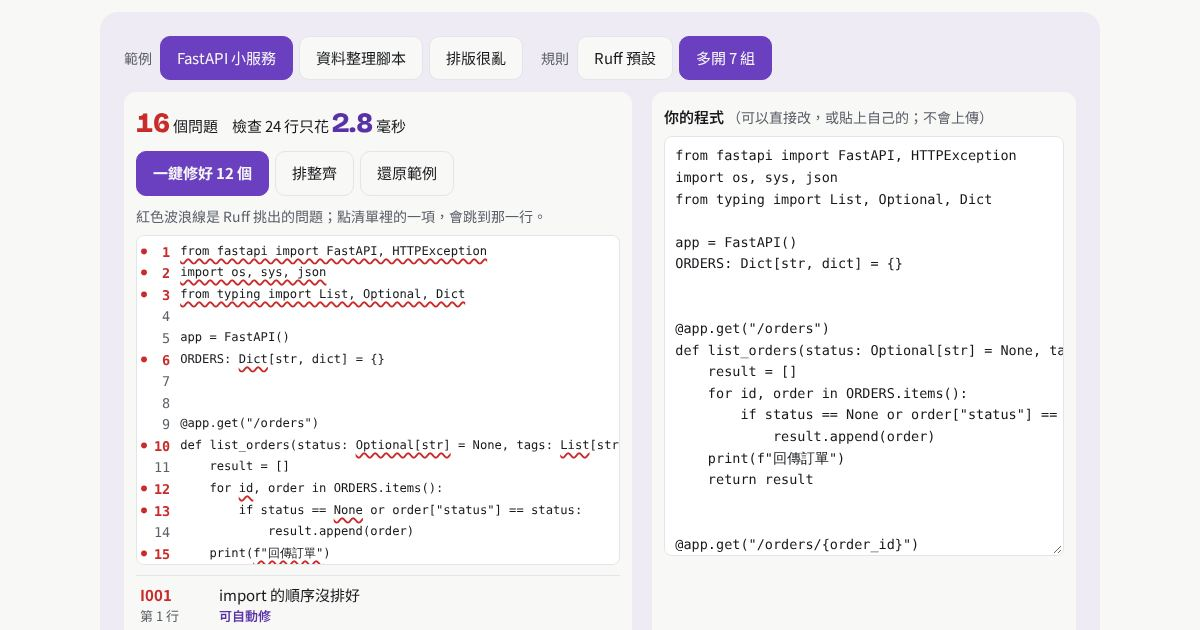
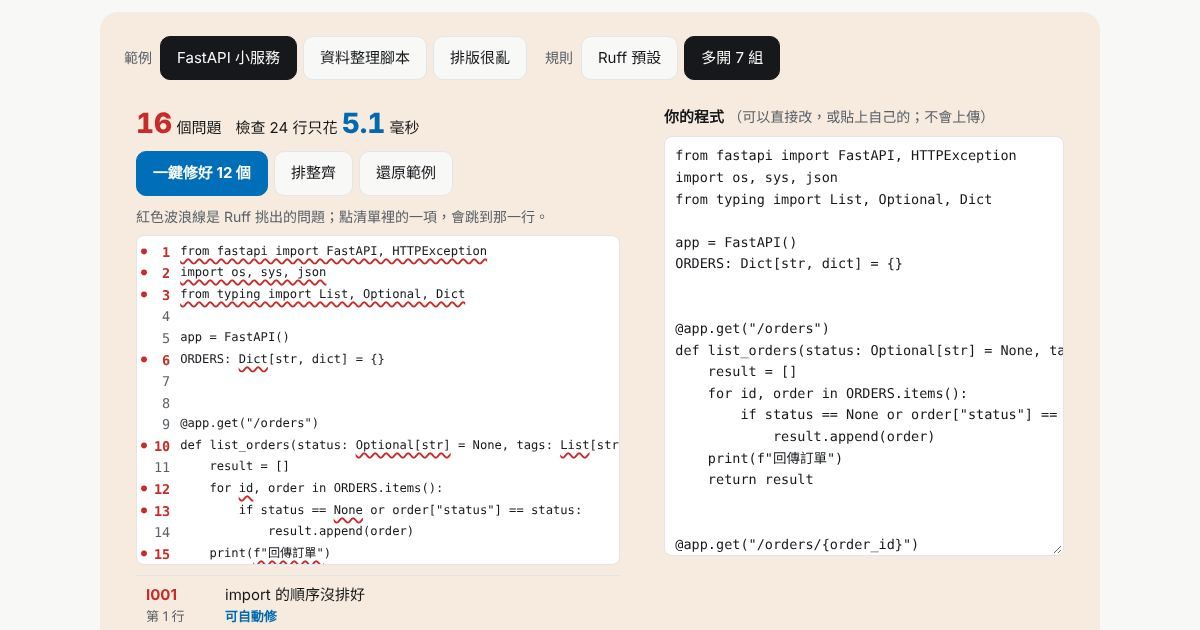
第 004 集：Python 程式健檢，16 萬行 0.06 秒看完：比 flake8 快 66 倍（Ruff）

Changed region(s): [[0.0925, 0.0302, 0.8942, 1.0], [0.0925, 0.0302, 0.4625, 0.4524], [0.6475, 0.6937, 0.7092, 0.754]]

diff --git a/ep-004-ruff/index.html b/ep-004-ruff/index.html
@@ -17,20 +17,35 @@
 <!-- 系列骨架（固定，不要覆寫）：版面、字型、30 秒看懂、發現、圖說、步驟圖、點子、深入區 -->
 <link rel="stylesheet" href="../assets/series.css">
 <style>
-/* ===== 本集設計 =====
-   SUBJECT: 寫程式的人每天看的「編輯器」：左邊行號、出問題的字底下一條紅色波浪線，像老師用紅筆批改作業。Ruff 做的就是批改＋幫你訂正＋把字寫整齊。
-   ACCENT:  Astral（Ruff 的公司）官網的深紫 #261230 與萊姆黃 #d7ff64。主題色用紫：亮色 #6a3fc0（文字 #5a32a8），暗色 #b79cff；萊姆黃只拿來標「剛被修好的那一行」。
-   MOTIF:   ① Demo 是一張「批改中的作業」：行號槽、紅色波浪底線、有問題的行號旁加一個 ● ② 修好的行用萊姆黃螢光筆塗底 ③ 每次檢查都顯示花了幾毫秒，數字用 Bricolage 大字。
-   ANSWER:  幫你的 Python 程式挑錯、訂正、排整齊，一眨眼就好。
-   CHECKED: 不用黑底螢光綠的「駭客終端機」（萊姆黃只當螢光筆、面積很小，程式區在亮色模式是白紙）；不用卡片牆；標題不單獨上色；等寬字只用在程式碼本身，規則代號用一般字型。
-   ===== */
+/* palette:start — 由 oss.py palette 產生，不要手改 */
+/* 和田三造《配色事典》第 295 組：Cream Yellow #fdbf68、Yellow #fff200、Blue #006eb8、Dull Violet Black #1e0e3f。重點色＝第 3 色、舞台＝第 1 色；文字與重點色只調明度過對比，底色用同色相的淡色。資料 https://github.com/mattdesl/dictionary-of-colour-combinations（MIT，色碼由 CMYK 換算） */
 :root{
-  --accent:light-dark(#6a3fc0,#b79cff);
-  --accent-ink:light-dark(#5a32a8,#cbb8ff);
-  --accent-soft:light-dark(#efe9fb,#2d2540);
-  --stage:light-dark(#eeebf4,#221d2c);
-  --err:light-dark(#c92a2a,#ff8787); --lime:light-dark(#e4ff8a,#4a5a12); --paper:light-dark(#ffffff,#2a2435);
+  --accent:light-dark(#006eb8,#2f89d6);
+  --accent-ink:light-dark(#0069b1,#449cea);
+  --accent-soft:light-dark(#dceeff,#182d41);
+  --stage:light-dark(#f6ebde,#31271a);
+  --pal-1:light-dark(#b77c1a,#fdbf68);
+  --pal-1-soft:light-dark(#fae8d2,#392810);
+  --pal-1-mark:light-dark(#ffdfb6,#6a4400);
+  --pal-2:light-dark(#938b00,#fff200);
+  --pal-2-soft:light-dark(#eeedd3,#2e2d10);
+  --pal-2-mark:light-dark(#f9f170,#544f00);
+  --pal-3:light-dark(#006eb8,#1075bf);
+  --pal-3-soft:light-dark(#dceeff,#182d41);
+  --pal-3-mark:light-dark(#d0e8ff,#1e507c);
+  --pal-4:light-dark(#1e0e3f,#756aa3);
+  --pal-4-soft:light-dark(#ebe8ff,#2c283d);
+  --pal-4-mark:light-dark(#e5e0ff,#1e0e3f);
 }
+/* palette:end */
+/* ===== 本集設計 =====
+   SUBJECT: 寫程式的人每天看的「編輯器」：左邊行號、出問題的字底下一條紅色波浪線，像老師批改作業。Ruff 做的就是批改＋幫你訂正＋把字寫整齊。
+   ACCENT:  和田三造《配色事典》第 295 組（oss.py palette）：紅＝批改（Ruff 挑出的問題，用系列 --risk）；藍（第 3 色）＝訂正的筆：只有「一鍵修好」實心藍、修好的行號旁一個藍 ✓；黃（--pal-2-mark）＝螢光筆標出改過的行；奶油黃（第 1 色）＝墊在作業紙下的書桌；深紫（第 4 色）＝圖 4 裡「排法不同」的檔案。
+   MOTIF:   ① Demo 是一張「批改中的作業」：行號槽、紅色波浪底線、有問題的行號旁加一個 ● ② 修好的行用螢光黃塗底 ③ 每次檢查都顯示花了幾毫秒，數字用 Bricolage 大字。
+   ANSWER:  幫你的 Python 程式挑錯、訂正、排整齊，一眨眼就好。
+   CHECKED: 不用黑底螢光綠的「駭客終端機」（螢光黃只當螢光筆、面積很小，程式區在亮色模式是白紙）；不用卡片牆；標題不單獨上色；等寬字只用在程式碼本身，規則代號用一般字型。
+   ===== */
+:root{ --paper:light-dark(Canvas,var(--tint)); }
 /* ===== Demo：批改中的作業 ===== */
 #demo [hidden]{display:none!important}
 .demo-desk{background:var(--stage);border-radius:18px;padding:clamp(16px,2.4vw,24px)}
@@ -39,13 +54,12 @@
 .demo-group>span{font-size:14px;color:var(--mute);margin-right:2px;flex:0 0 auto;white-space:nowrap}
 .demo-acts .btn.go:disabled{background:transparent;color:var(--mute);border-color:var(--line);font-weight:400}
 .demo-group .btn{min-height:44px;font-size:15px}
-.demo-group .btn[aria-pressed="true"]{background:var(--accent);color:var(--bg);border-color:var(--accent)}
 .demo-grid{display:grid;grid-template-columns:minmax(0,6fr) minmax(0,5fr);gap:clamp(10px,2vw,20px)}
 @media(max-width:820px){.demo-grid{grid-template-columns:minmax(0,1fr)}}
-.demo-panel{background:var(--bg);border-radius:12px;padding-top:12px;padding-bottom:12px;padding-left:12px;padding-right:12px;min-width:0}
+.demo-panel{background:transparent;border-radius:12px;padding-top:12px;padding-bottom:12px;padding-left:12px;padding-right:12px;min-width:0}
 .demo-stat{display:flex;flex-wrap:wrap;align-items:baseline;gap:4px 14px;margin:0 0 8px;font-size:15px;line-height:1.4;max-width:none}
 .demo-stat b{font-family:var(--disp);font-size:28px;font-variant-numeric:tabular-nums;font-weight:800}
-.demo-stat .bad b{color:var(--err)}
+.demo-stat .bad b{color:var(--risk)}
 .demo-stat .fast b{color:var(--accent-ink)}
 .demo-acts{display:flex;flex-wrap:wrap;gap:6px;margin:0 0 10px}
 .demo-acts .btn{min-height:44px;font-size:15px}
@@ -56,20 +70,22 @@
 @media(max-width:820px){#demoView{max-height:250px}}
 .demo-ln{display:grid;grid-template-columns:3.2em minmax(0,1fr);white-space:pre;min-width:max-content}
 .demo-ln .no{color:var(--mute);text-align:right;padding-right:10px;user-select:none;position:relative}
-.demo-ln.has .no{color:var(--err);font-weight:700}
+.demo-ln.has .no{color:var(--risk);font-weight:700}
 .demo-ln.has .no::before{content:"●";position:absolute;left:4px;font-size:10px;top:1px}
 .demo-ln code{font-family:inherit;padding-right:12px}
-.demo-ln u{text-decoration:underline wavy var(--err);text-decoration-thickness:1.5px;text-underline-offset:3px;text-decoration-skip-ink:none}
-.demo-ln.fixed code{background:var(--lime)}
+.demo-ln u{text-decoration:underline wavy var(--risk);text-decoration-thickness:1.5px;text-underline-offset:3px;text-decoration-skip-ink:none}
+.demo-ln.fixed code{background:var(--pal-2-mark)}
+.demo-ln.fixed .no{color:var(--accent-ink);font-weight:700}
+.demo-ln.fixed .no::before{content:"✓";position:absolute;left:3px;font-size:11px;top:0}
 .demo-ln.flash{outline:2px solid var(--accent);outline-offset:-2px}
 /* 問題清單 */
 #demoList{list-style:none;margin:10px 0 0;padding:0;max-height:220px;overflow:auto;font-size:15px}
 @media(max-width:820px){#demoList{max-height:200px}}
 #demoList li{border-top:1px solid var(--line)}
-#demoList button{all:unset;box-sizing:border-box;display:grid;grid-template-columns:4.6em minmax(0,1fr);gap:2px 10px;width:100%;padding-top:8px;padding-bottom:8px;padding-left:4px;padding-right:4px;cursor:pointer;min-height:44px;line-height:1.45}
+#demoList button{all:unset;box-sizing:border-box;display:grid;grid-template-columns:4.6em minmax(0,1fr);gap:2px 10px;width:100%;padding-top:8px;padding-bottom:8px;padding-left:10px;padding-right:10px;cursor:pointer;min-height:44px;line-height:1.45}
 #demoList button:focus-visible{outline:2px solid var(--accent)}
 #demoList button:hover{background:var(--accent-soft)}
-#demoList .code{font-weight:700;color:var(--err)}
+#demoList .code{font-weight:700;color:var(--risk)}
 #demoList .where{font-size:13px;color:var(--mute)}
 #demoList .can{font-size:13px;color:var(--accent-ink);font-weight:600}
 #demoList .none{display:block;padding-top:10px;color:var(--mute)}
@@ -82,7 +98,7 @@
 .fx-stack{display:flex;height:28px;border-radius:6px;overflow:hidden;margin-top:14px}
 .fx-stack i{display:block;height:100%}
 .fx-stack .same{background:var(--accent)}
-.fx-stack .diff{background:var(--err);border-left:2px solid var(--bg)}
+.fx-stack .diff{background:var(--pal-4);border-left:2px solid var(--bg)}
 .fx-key{display:flex;flex-wrap:wrap;gap:4px 16px;font-size:14px;margin-top:6px}
 .fx-key b{font-family:var(--disp);font-variant-numeric:tabular-nums}
 .fx-tiny .t i{min-width:3px}
@@ -151,7 +167,7 @@
     <dt>先說背景</dt><dd>寫 Python 的團隊通常會裝三四個工具：一個挑錯、一個整理檔案開頭的引用清單、一個統一排版，專案一大，每次存檔都要等好幾秒。</dd>
     <dt>它是什麼</dt><dd>Ruff 是 Astral 公司用 <dfn>Rust</dfn><span class="gloss">（一種跑起來接近機器速度的程式語言）</span>寫的 <dfn>linter</dfn><span class="gloss">（程式健檢工具）</span>加 <dfn>formatter</dfn><span class="gloss">（排版工具）</span>，一個工具取代上面那些。</dd>
     <dt>為什麼值得看</dt><dd>快到感覺不到：整個 <dfn>Django</dfn><span class="gloss">（很多網站在用的大型 Python 專案，約 16.6 萬行）</span>檢查只要 0.06 秒，比老牌檢查工具 flake8 快 66 倍。</dd>
-    <dt>要注意</dt><dd>它不檢查型別（例如把字串傳進要數字的地方），那要另外搭配別的工具。</dd>
+    <dt>要注意</dt><dd>它不檢查型別（例如把文字傳進要數字的地方），那要另外搭配別的工具。</dd>
     <dt>最適合你的點子</dt><dd><a href="#ideas">讓 AI 助手每次改完 Python 都先跑一次 Ruff</a>，人工檢查時只看真正的改動。</dd>
   </dl>
 </section>
@@ -310,7 +326,7 @@ select = ["E", "F", "W", "I", "UP", "B", "SIM", "C4", "FAST"]</pre>
       <li><b>跨集組合：</b><a href="../ep-003-headroom/">第 3 集 Headroom</a> 把工具吐給 AI 的 log 壓小；Ruff 則讓 AI 寫出來的程式先被自動訂正。兩個一起，等於 AI 寫程式時「讀進去的字少一點、交出來的程式乾淨一點」。</li>
     </ul>
   </div></details>
-  <details data-section="sources" id="sources"><summary><b>來源</b><span>10 筆，數字都標了取得日期</span></summary><div class="body"><ol class="src">
+  <details data-section="sources" id="sources"><summary><b>來源</b><span>11 筆，數字都標了取得日期</span></summary><div class="body"><ol class="src">
     <li><a href="https://github.com/astral-sh/ruff">astral-sh/ruff</a>：51,571 顆星、2,796 個 fork、MIT、最後 commit 2026-11-26（GitHub 搜尋 API，2026-11-27 查詢）</li>
     <li><a href="https://github.com/astral-sh/ruff/blob/main/LICENSE">Ruff LICENSE 原文</a>（2026-11-27 clone 確認）</li>
     <li><a href="https://docs.astral.sh/ruff/rules/">Ruff 規則列表</a>；本集用 <code>ruff rule --all</code> 數出 977 條（815 穩定、145 預覽、17 已移除；lab/ruff-rules.json）</li>
@@ -321,6 +337,7 @@ select = ["E", "F", "W", "I", "UP", "B", "SIM", "C4", "FAST"]</pre>
     <li><a href="https://simonwillison.net/2026/Mar/19/openai-acquiring-astral/">Simon Willison：OpenAI acquiring Astral</a>（2026-03-19）</li>
     <li><a href="https://github.com/django/django">django/django</a> 測試對象，commit f0e7bd9（2026-11-26）</li>
     <li><a href="https://github.com/risibility0822/oss-explorer/tree/main/ep-004-ruff/lab">本集 lab/</a>：bench.py、bench.json、parity.py、parity.json</li>
+    <li>配色：和田三造《配色事典》第 295 組（資料 <a href="https://github.com/mattdesl/dictionary-of-colour-combinations">mattdesl/dictionary-of-colour-combinations</a>，MIT，色碼由原書的 CMYK 換算；文字與重點色只調明度以符合對比標準，底色用同色相的淡色）</li>
   </ol></div></details>
 </section>
 
@@ -430,7 +447,7 @@ function run(changed){
   diags.sort((a,b)=>a.start_location.row-b.start_location.row||a.start_location.column-b.start_location.column);
   const ms=median(times),nLines=text.split("\n").length-(text.endsWith("\n")?1:0),fixable=diags.filter(d=>d.fix&&d.fix.edits.length).length;
   stat.innerHTML=`<span class="${diags.length?"bad":""}"><b data-n="${diags.length}" id="demoCount">${diags.length}</b> 個問題</span><span class="fast">檢查 ${nLines} 行只花 <b id="demoMs">${fmtMs(ms)}</b> 毫秒</span>`;
-  $("demoFix").textContent=fixable?`一鍵修好 ${fixable} 個`:"沒有能自動修的";$("demoFix").disabled=!fixable;
+  $("demoFix").textContent=fixable?`一鍵修好 ${fixable} 個`:"都修好了";$("demoFix").disabled=!fixable;
   render(text,diags,changed);
   list.innerHTML=diags.length?diags.map(d=>{const code=d.code||"語法";const zh=d.code&&ZH[d.code]?ZH[d.code]:d.code?d.message:"語法錯誤："+d.message;
     return `<li><button type="button" data-row="${d.start_location.row}"><span class="code">${esc(code)}</span><span>${esc(zh)}</span><span class="where">第 ${d.start_location.row} 行</span><span class="can">${d.fix&&d.fix.edits.length?"可自動修":""}</span></button></li>`}).join(""):`<li><span class="none">沒有問題。換一組規則，或改壞一點試試。</span></li>`;
